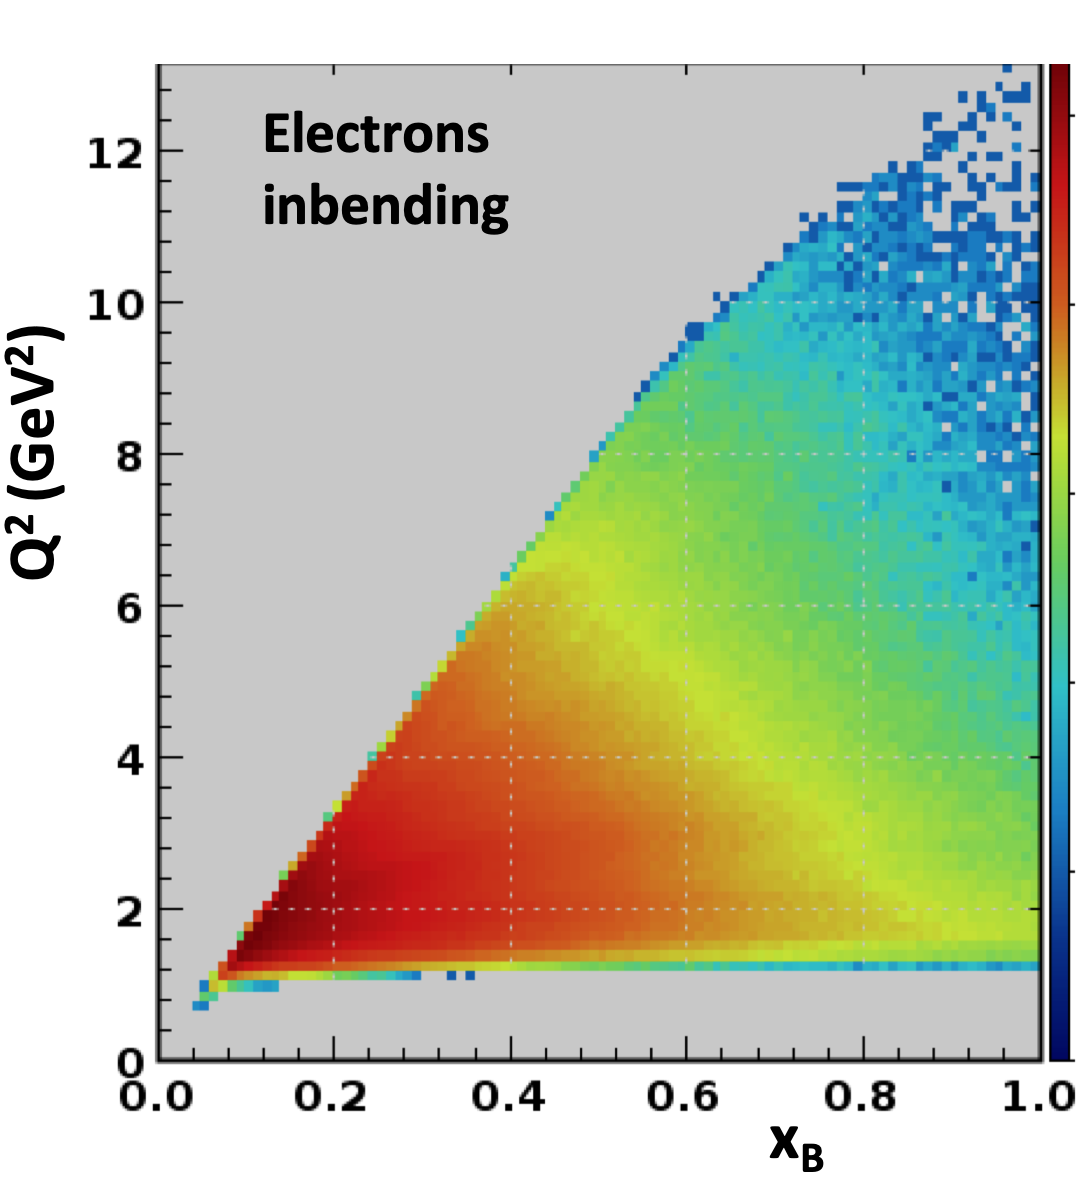
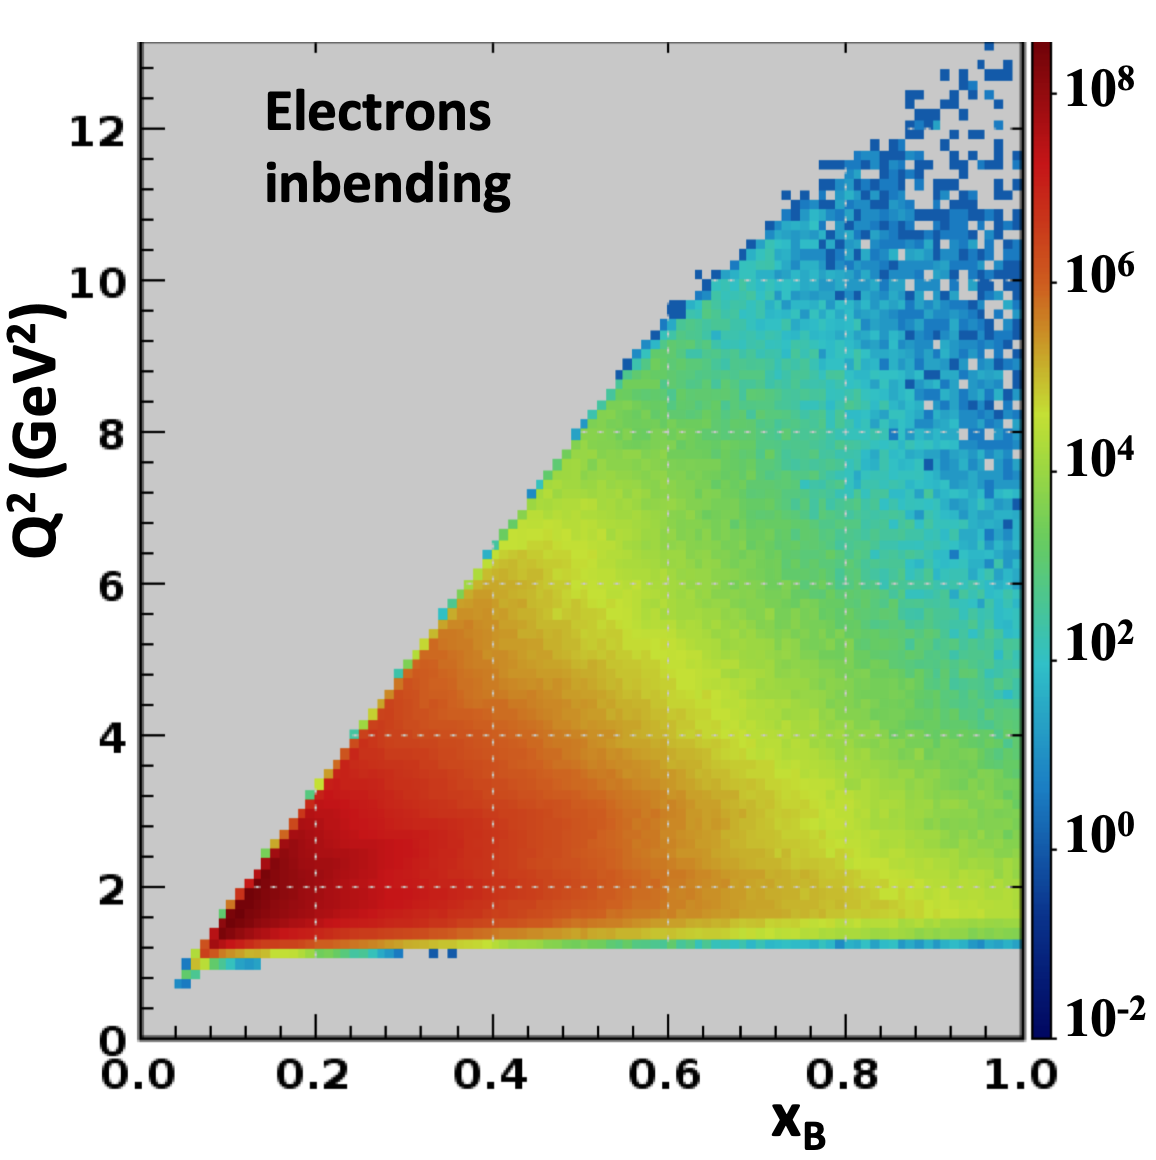
new picture

diff --git a/overview/overview.tex b/overview/overview.tex
@@ -852,15 +852,15 @@ in the upper left sector results from a hardware issue. {\bf DO IT IN LOG SCALE?
 \label{electrons-xy}
 \end{figure}
 
-\begin{figure}[htbp!]
+\begin{figure*}[htbp!]
 \centerline{
 \includegraphics[width=1.0\columnwidth]{epX-in.png}
-\includegraphics[width=1.0\columnwidth]{epX-in.png}
+\includegraphics[width=1.12\columnwidth]{epX-out.png}}
 \caption{(Color Online) Inclusive $ep \to e'X$ coverage in $Q^2$ vs. $x_B$. The full kinematics is measured simultaneously. The
 kinematic range is given by the beam energy to the left, the elastic scattering kinematics at $x_B = 1$, and by the
-small angle acceptance at the $Q^2 \approx 1.0$~GeV$^2$ limit for electrons bending towards the beam line.} }
+small angle acceptance at the $Q^2 \approx 1.0$~GeV$^2$ limit for electrons bending towards the beam line.} 
 \label{electron-acceptance}
-\end{figure}
+\end{figure*}
 
 \subsection{Charged Particle Detection in FD}
  
